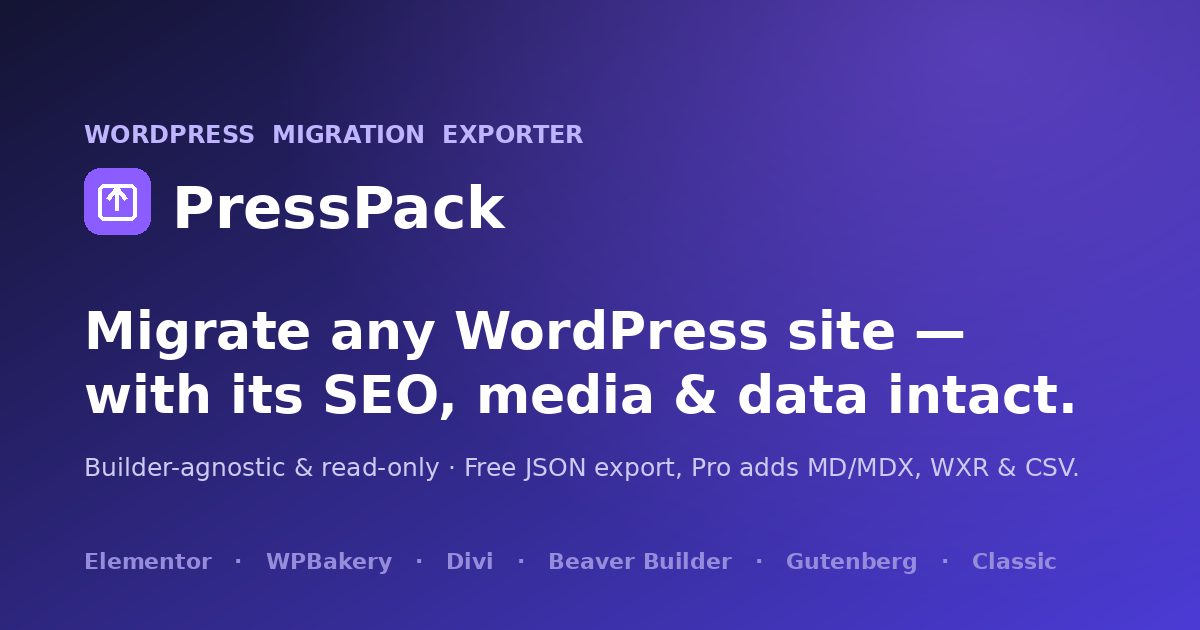
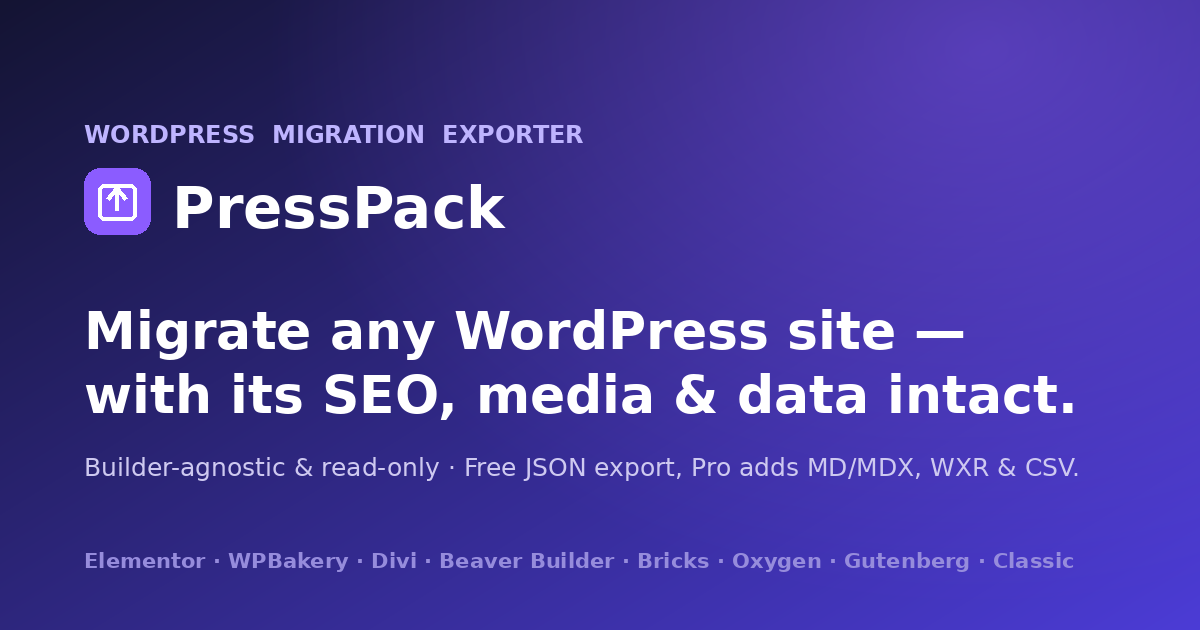
Landing: add Bricks & Oxygen to builders, tighten hero spacing
Adds Bricks and Oxygen to the builder chips and FAQ, refreshes the social
preview image, and reduces the gap between the hero and the first section.

Changed region(s): [[0.0617, 0.8746, 0.8942, 0.9048]]

diff --git a/index.html b/index.html
@@ -52,7 +52,7 @@
   @media(max-width:720px){.nav-links{display:none}}
 
   /* Hero */
-  .hero{position:relative;padding:84px 0 72px;background:
+  .hero{position:relative;padding:84px 0 40px;background:
      radial-gradient(1200px 500px at 80% -10%,rgba(139,92,255,.16),transparent 60%),
      radial-gradient(900px 480px at 0% 10%,rgba(18,201,166,.12),transparent 55%),var(--bg)}
   .hero h1{font-size:clamp(34px,5vw,58px);font-weight:850;max-width:16ch}
@@ -64,6 +64,7 @@
     padding:7px 14px;border-radius:999px;box-shadow:0 2px 8px rgba(20,16,60,.04)}
 
   section{padding:76px 0}
+  .hero+section{padding-top:40px}
   .section-head{max-width:60ch;margin-bottom:44px}
   .section-head h2{font-size:clamp(26px,3.4vw,38px);font-weight:820;margin-top:12px}
   .section-head p{font-size:18px;color:var(--muted);margin-top:14px}
@@ -174,7 +175,8 @@
     <p class="note">Free core plugin — coming soon to WordPress.org · Pro unlocks every format &amp; one-click media bundling · Read-only &amp; safe</p>
     <div class="builders">
       <span class="chip">Elementor</span><span class="chip">WPBakery</span><span class="chip">Divi</span>
-      <span class="chip">Beaver Builder</span><span class="chip">Gutenberg</span><span class="chip">Classic</span>
+      <span class="chip">Beaver Builder</span><span class="chip">Bricks</span><span class="chip">Oxygen</span>
+      <span class="chip">Gutenberg</span><span class="chip">Classic</span>
     </div>
   </div>
 </header>
@@ -330,7 +332,7 @@
       <h2>Questions, answered.</h2>
     </div>
     <details open><summary>Is it safe to run on a live site?</summary><p>Yes. PressPack is read-only — it only reads your content and hands you a file. It never changes your posts, database, or settings, and leaves nothing behind when deleted.</p></details>
-    <details><summary>Which page builders are supported?</summary><p>Elementor, WPBakery, Divi, Beaver Builder, Gutenberg, and the Classic editor. Each item is rendered with the right method and tagged so nothing renders empty.</p></details>
+    <details><summary>Which page builders are supported?</summary><p>Elementor, WPBakery, Divi, Beaver Builder, Bricks, Oxygen, Gutenberg, and the Classic editor. Each item is rendered with the right method and tagged so nothing renders empty.</p></details>
     <details><summary>Do I need to be a developer?</summary><p>No. Everything happens with a dropdown and a button inside your WordPress admin — pick a format, click download. No command line, no code.</p></details>
     <details><summary>What happens to my images?</summary><p>With Pro, one click bundles every image and file alongside the export and rewrites the URLs to the packaged copies — including responsive <code>srcset</code> sizes. The result is fully self-contained.</p></details>
     <details><summary>Is this a subscription I’m stuck with?</summary><p>Your license includes a year of updates and support. Since migration is usually one-time, you can cancel renewal after your migration and keep using the version you have.</p></details>